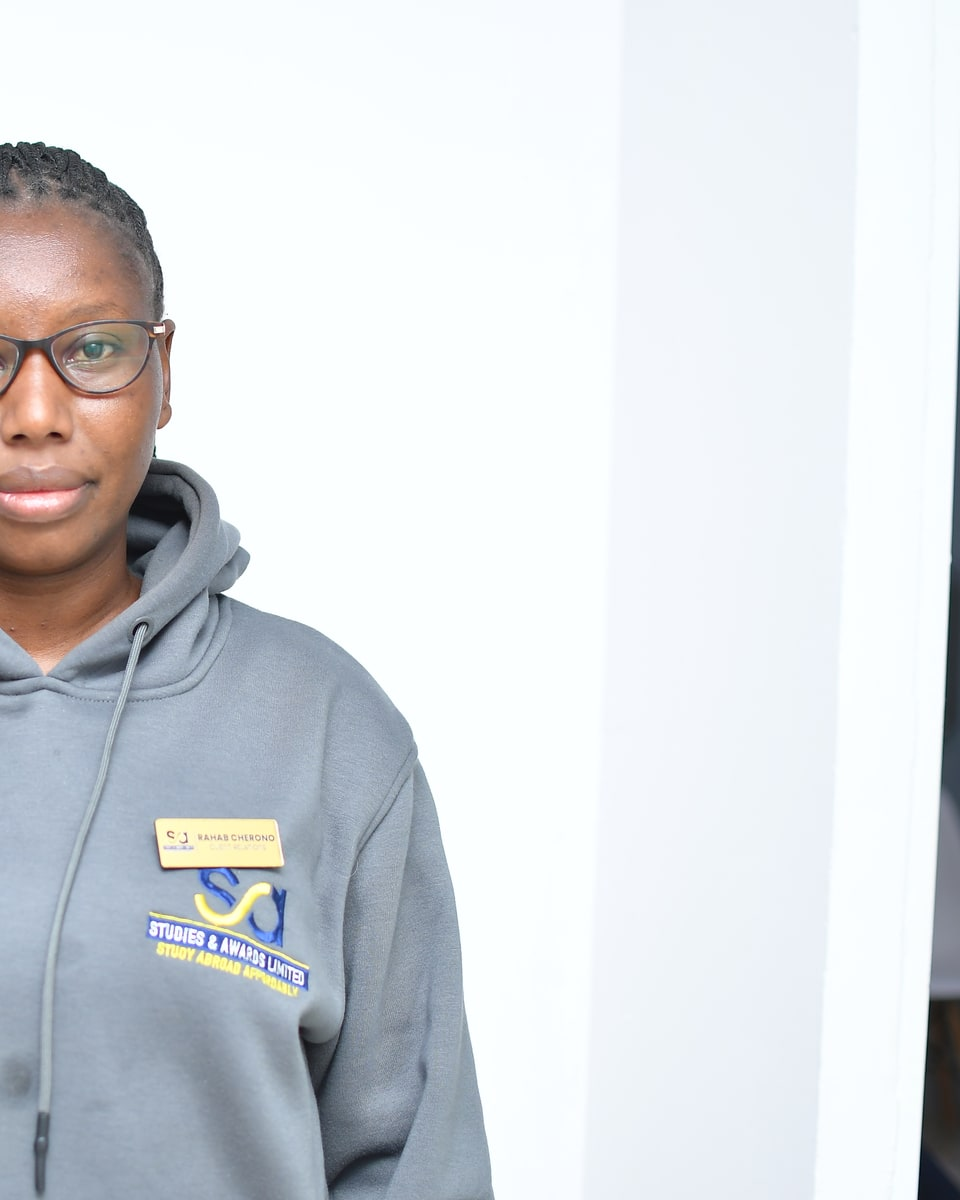
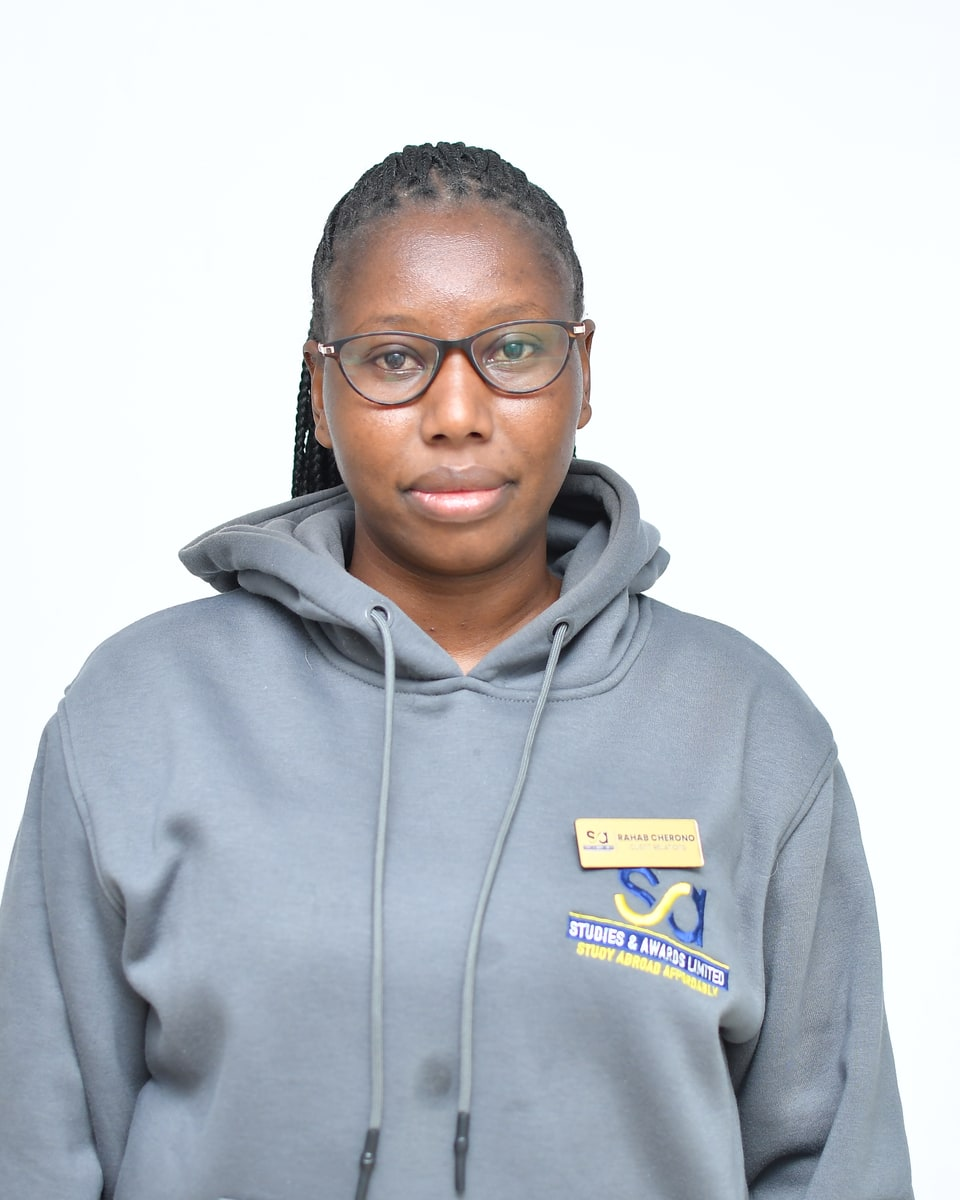
Fix photo crops, enlarge bio modal photo, and write team bios
Re-crop Rahab and Tina with centered gravity instead of attention-based
auto-crop, which was cutting off faces. Enlarge the bio modal photo
(72px to 120px desktop, 56px to 96px mobile) for better visibility.
Fill in all 11 team members' full bios, drafted from role and company
context only — no invented specifics. Last names and real LinkedIn
URLs are still outstanding for most people.

diff --git a/site/js/team-data.js b/site/js/team-data.js
@@ -2,9 +2,10 @@
 //   { id, name, role, shortBio, fullBio: string[], photo, linkedin? }
 // photo should be a 4:5 portrait (e.g. 960x1200) for the best crop in the slider.
 //
-// Bios below are intentionally short and generic (role-based, nothing
-// invented) — replace shortBio/fullBio with real background/detail
-// whenever you have it, and add last names + real linkedin URLs when ready.
+// Bios are drafted from each person's role only — no invented specifics
+// (no made-up years of experience, schools, etc.). Swap in real detail
+// whenever you have it. Last names and real linkedin URLs are still
+// missing for most people — fill those in when ready.
 window.TEAM_MEMBERS = [
   {
     id: 'evelyne-choge',
@@ -12,8 +13,8 @@ window.TEAM_MEMBERS = [
     role: 'Director',
     shortBio: 'Evelyne is the Director at Studies and Awards Limited, overseeing the organisation’s strategy and day-to-day operations.',
     fullBio: [
-      'Evelyne Choge is the Director at Studies and Awards Limited, based in Eldoret.',
-      '[Add a couple of sentences on her background and what she focuses on day to day.]'
+      'Evelyne Choge is the Director at Studies and Awards Limited, based in Eldoret. She sets the direction for how the team supports students across every stage of their study-abroad journey, from the first consultation through to departure.',
+      'Evelyne works closely with each department to make sure students get consistent, personal guidance regardless of which destination or counsellor they’re paired with, and stays involved in the partnerships that keep the company’s advice current.'
     ],
     photo: 'assets/team/evelyne-choge.jpg',
     linkedin: '#'
@@ -24,8 +25,8 @@ window.TEAM_MEMBERS = [
     role: 'General Manager',
     shortBio: 'Mourine is the General Manager at Studies and Awards Limited, overseeing the team’s day-to-day work across every destination.',
     fullBio: [
-      'Mourine serves as General Manager at Studies and Awards Limited.',
-      '[Add a couple of sentences on her background and what she focuses on day to day.]'
+      'Mourine is the General Manager at Studies and Awards Limited, overseeing day-to-day operations across every destination the company supports.',
+      'She works across departments to keep applications, compliance and client communication running smoothly, so students have one consistent experience from enquiry to enrolment.'
     ],
     photo: 'assets/team/mourine.jpg',
     linkedin: '#'
@@ -36,8 +37,8 @@ window.TEAM_MEMBERS = [
     role: 'Assistant General Manager',
     shortBio: 'Joyner is the Assistant General Manager at Studies and Awards Limited, supporting operations across the team.',
     fullBio: [
-      'Joyner serves as Assistant General Manager at Studies and Awards Limited.',
-      '[Add a couple of sentences on her background and what she focuses on day to day.]'
+      'Joyner is the Assistant General Manager at Studies and Awards Limited, supporting the General Manager in coordinating the team’s daily operations.',
+      'She helps keep the different departments — applications, compliance, client relations — working together smoothly, so nothing falls through the cracks on a student’s file.'
     ],
     photo: 'assets/team/joyner.jpg',
     linkedin: '#'
@@ -48,8 +49,8 @@ window.TEAM_MEMBERS = [
     role: 'Assistant Manager',
     shortBio: 'Beatrice is the Assistant Manager at Studies and Awards Limited, supporting the team’s day-to-day operations.',
     fullBio: [
-      'Beatrice serves as Assistant Manager at Studies and Awards Limited.',
-      '[Add a couple of sentences on her background and what she focuses on day to day.]'
+      'Beatrice is the Assistant Manager at Studies and Awards Limited, supporting the day-to-day running of the office and the wider team.',
+      'She helps coordinate between departments and keeps things moving for students at every stage of their application.'
     ],
     photo: 'assets/team/beatrice.jpg',
     linkedin: '#'
@@ -60,8 +61,8 @@ window.TEAM_MEMBERS = [
     role: 'Compliance and Verification',
     shortBio: 'Dennis handles compliance and verification at Studies and Awards Limited, making sure every application meets the right standards.',
     fullBio: [
-      'Dennis leads Compliance and Verification at Studies and Awards Limited.',
-      '[Add a couple of sentences on his background and what he focuses on day to day.]'
+      'Dennis leads Compliance and Verification at Studies and Awards Limited, reviewing student documentation before it’s submitted to partner institutions and visa authorities.',
+      'His work is about catching errors and missing paperwork early, so applications go out complete and accurate the first time.'
     ],
     photo: 'assets/team/dennis.jpg',
     linkedin: '#'
@@ -72,8 +73,8 @@ window.TEAM_MEMBERS = [
     role: 'Administration and Accounts',
     shortBio: 'Tebby manages administration and accounts at Studies and Awards Limited, keeping the office and finances running smoothly.',
     fullBio: [
-      'Tebby handles Administration and Accounts at Studies and Awards Limited.',
-      '[Add a couple of sentences on her background and what she focuses on day to day.]'
+      'Tebby handles Administration and Accounts at Studies and Awards Limited, keeping the office running and managing the company’s day-to-day finances.',
+      'She’s often the first point of contact for anything administrative, from scheduling to payments, keeping things organised behind the scenes so the counselling team can focus on students.'
     ],
     photo: 'assets/team/tebby.jpg',
     linkedin: '#'
@@ -84,8 +85,8 @@ window.TEAM_MEMBERS = [
     role: 'IELTS and PTE Tutor',
     shortBio: 'Witney tutors IELTS and PTE at Studies and Awards Limited, preparing students for the language requirements of their destination.',
     fullBio: [
-      'Witney is the IELTS and PTE Tutor at Studies and Awards Limited.',
-      '[Add a couple of sentences on her background and what she focuses on day to day.]'
+      'Witney is the IELTS and PTE Tutor at Studies and Awards Limited, preparing students for the English-language tests most destinations require before they can enrol.',
+      'She works with students individually and in groups, building test-taking skills and confidence so they can meet the score their chosen university or visa needs.'
     ],
     photo: 'assets/team/witney.jpg',
     linkedin: '#'
@@ -96,20 +97,20 @@ window.TEAM_MEMBERS = [
     role: 'Applications',
     shortBio: 'Joy handles applications at Studies and Awards Limited, guiding students through their submissions to partner institutions.',
     fullBio: [
-      'Joy works on Applications at Studies and Awards Limited.',
-      '[Add a couple of sentences on her background and what she focuses on day to day.]'
+      'Joy works on Applications at Studies and Awards Limited, guiding students through their submissions to partner universities and colleges abroad.',
+      'She checks each application for completeness and accuracy before it goes out, helping students avoid the delays that come from a missing document or a rushed form.'
     ],
     photo: 'assets/team/joy.jpg',
     linkedin: '#'
   },
   {
     id: 'rahab',
-    name: 'Rahab',
+    name: 'Rahab Cherono',
     role: 'Customer Experience',
     shortBio: 'Rahab looks after Customer Experience at Studies and Awards Limited, making sure every student’s journey with us feels supported.',
     fullBio: [
-      'Rahab works on Customer Experience at Studies and Awards Limited.',
-      '[Add a couple of sentences on her background and what she focuses on day to day.]'
+      'Rahab Cherono looks after Customer Experience at Studies and Awards Limited, making sure every student who reaches out gets a clear, timely response.',
+      'She helps students find their footing at the start of the process and stays a familiar point of contact as their application moves forward.'
     ],
     photo: 'assets/team/rahab.jpg',
     linkedin: '#'
@@ -120,8 +121,8 @@ window.TEAM_MEMBERS = [
     role: 'Client Relations',
     shortBio: 'Tina works in Client Relations at Studies and Awards Limited, staying in touch with students throughout their application.',
     fullBio: [
-      'Tina works on Client Relations at Studies and Awards Limited.',
-      '[Add a couple of sentences on her background and what she focuses on day to day.]'
+      'Tina works in Client Relations at Studies and Awards Limited, staying in touch with students throughout their application so they always know what’s happening and what’s next.',
+      'She helps bridge the gap between students and the rest of the team, following up on outstanding steps and answering questions as they come up.'
     ],
     photo: 'assets/team/tina.jpg',
     linkedin: '#'
@@ -132,8 +133,8 @@ window.TEAM_MEMBERS = [
     role: 'Masomo Welfare',
     shortBio: 'Collins works on Masomo Welfare at Studies and Awards Limited, supporting students’ wellbeing throughout their studies.',
     fullBio: [
-      'Collins works on Masomo Welfare at Studies and Awards Limited.',
-      '[Add a couple of sentences on his background and what he focuses on day to day.]'
+      'Collins works on Masomo Welfare at Studies and Awards Limited, supporting students’ wellbeing throughout their time working with the company.',
+      'He checks in with students beyond the paperwork, making sure they feel supported as they prepare for a major move abroad.'
     ],
     photo: 'assets/team/collins.jpg',
     linkedin: '#'

diff --git a/site/css/styles.css b/site/css/styles.css
@@ -739,7 +739,7 @@ p { margin: 0; }
   color: var(--ink); border-bottom: 1px solid transparent;
 }
 .team-modal-linkedin:hover { border-bottom-color: var(--ink); }
-.team-modal-photo { width: 72px; height: 72px; border-radius: var(--radius-sm); object-fit: cover; flex-shrink: 0; }
+.team-modal-photo { width: 120px; height: 120px; border-radius: var(--radius-sm); object-fit: cover; flex-shrink: 0; }
 .team-modal-bio p { font-size: 14px; line-height: 1.75; color: var(--text-prose); margin-bottom: 14px; }
 .team-modal-bio p:last-child { margin-bottom: 0; }
 
@@ -1048,5 +1048,5 @@ p { margin: 0; }
   .team-active-row { flex-direction: column; align-items: flex-start; gap: 16px; }
   .team-join-btn { width: 100%; }
   .team-modal-head { flex-direction: column-reverse; }
-  .team-modal-photo { width: 56px; height: 56px; }
+  .team-modal-photo { width: 96px; height: 96px; }
 }
